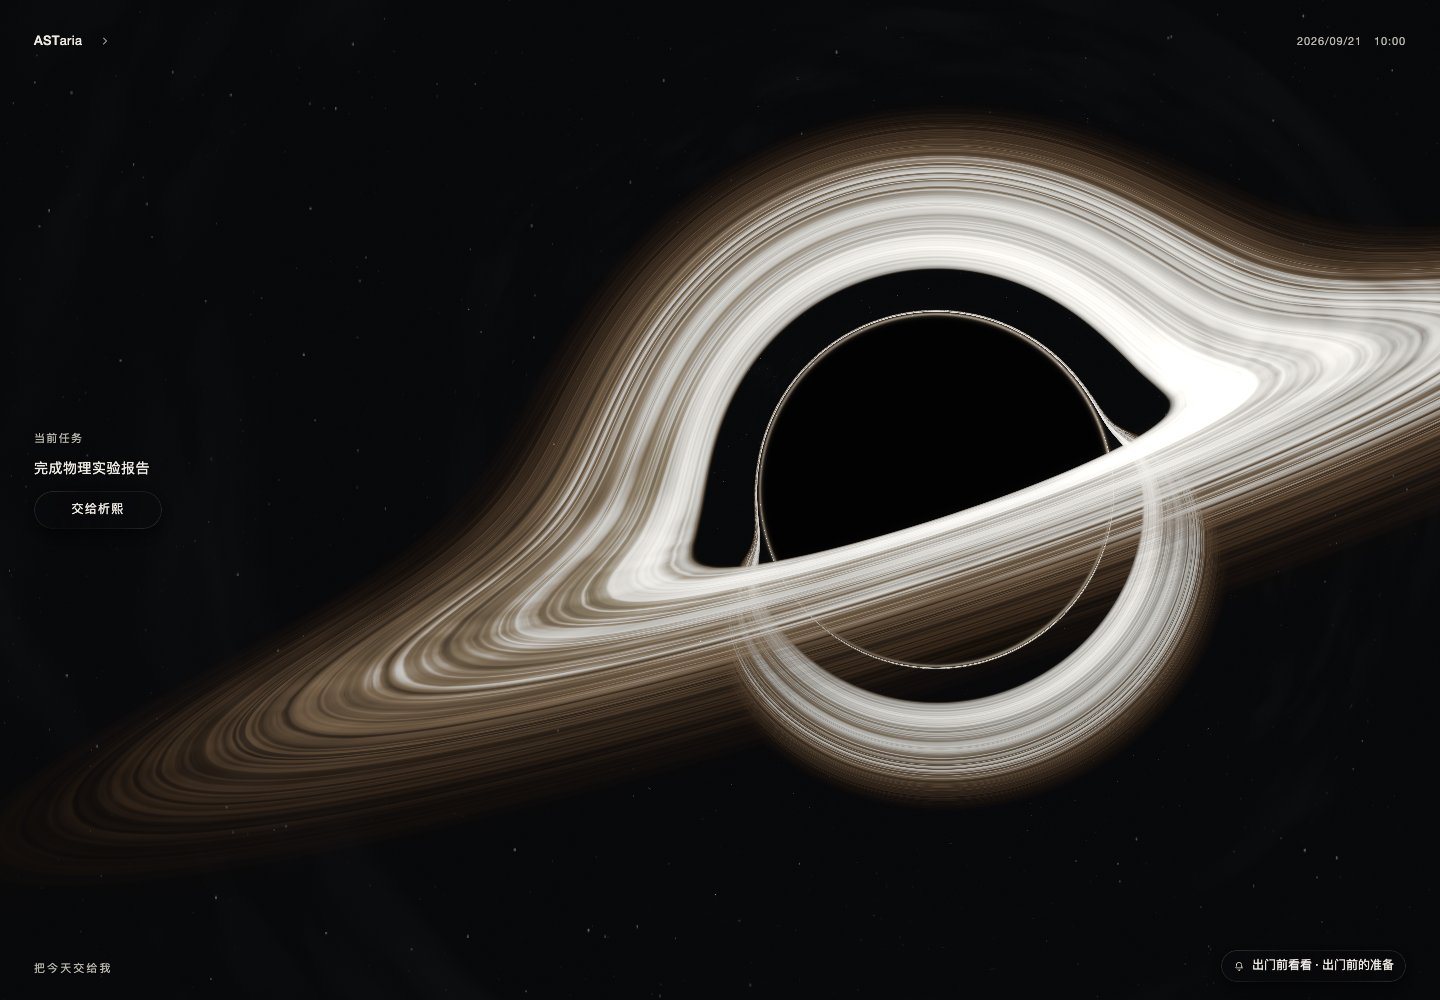
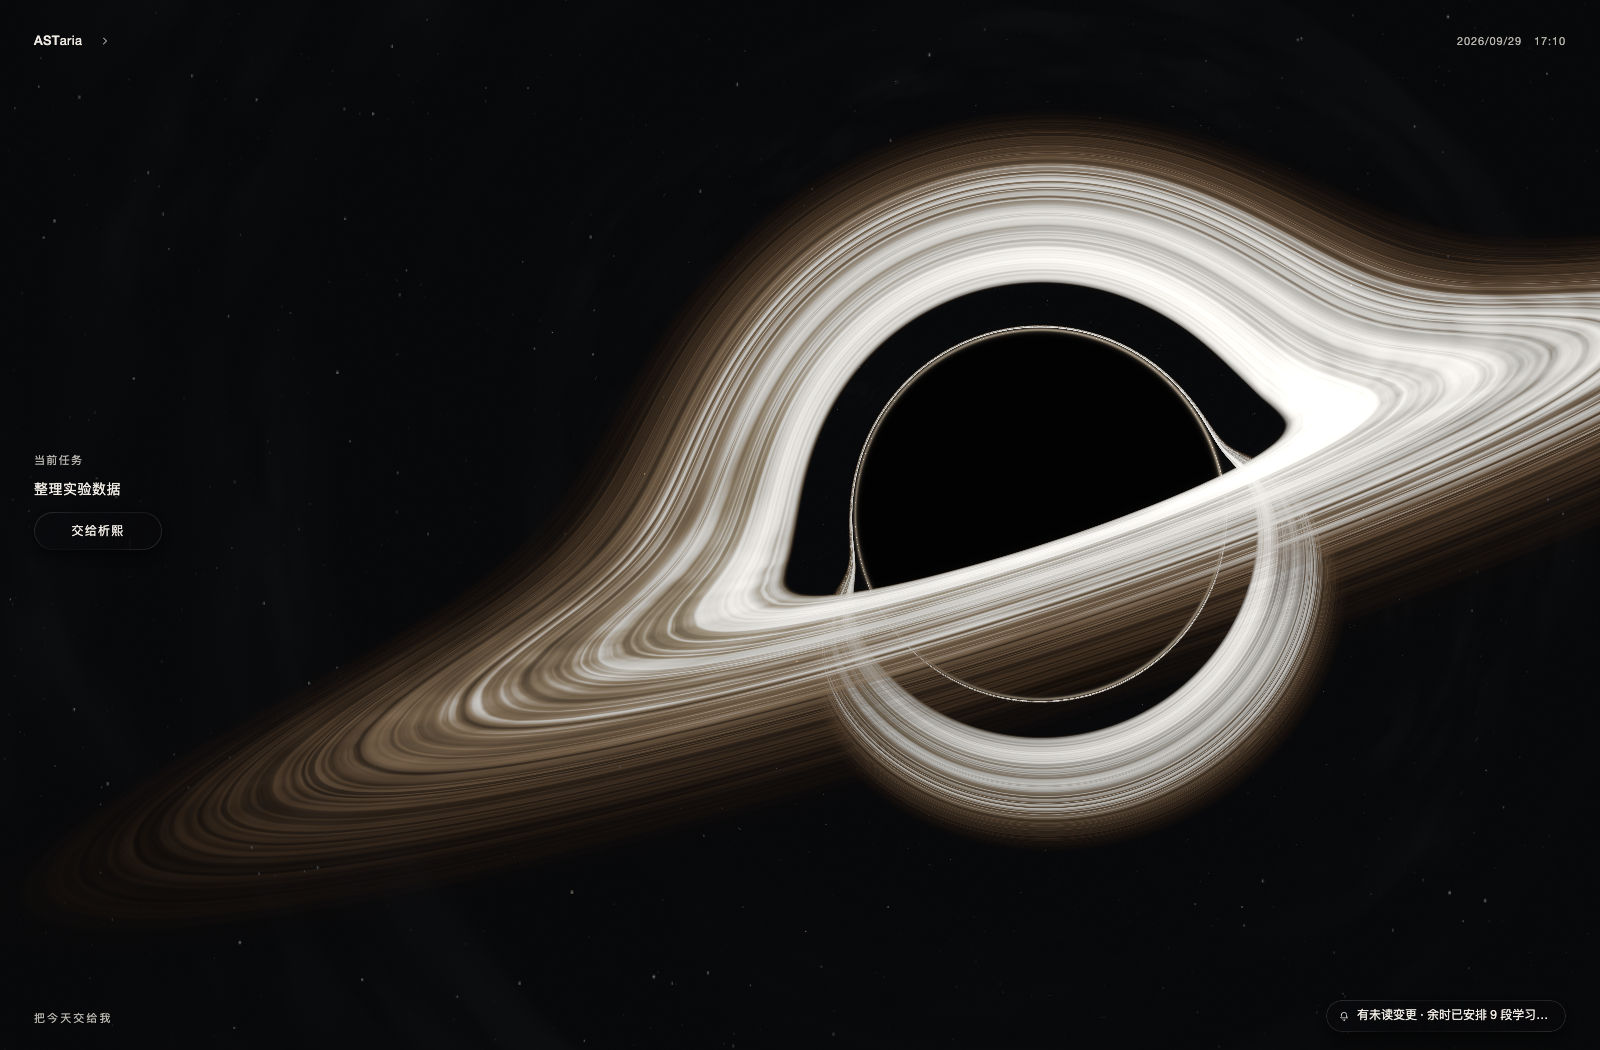
docs: show real scheduling receipts and populated README screenshots

diff --git a/README.md b/README.md
@@ -10,10 +10,23 @@ ASTaria 是一款本机优先的个人时间与事项应用。和析熙聊作业
 
 ## 看看 ASTaria
 
-<!-- Screenshots are captured with fictional, isolated demonstration data. -->
-![黑洞首页：当前事项与析熙入口](docs/images/home.png)
-![日程：课程、任务与空档同屏查看](docs/images/planner.png)
-![余时：展开心愿输入区，与析熙理清第一步](docs/images/free-time.png)
+截图使用虚构演示数据。
+
+**从一句话，到可核对、可撤销的安排。** 析熙把实验报告记为事项并排入今晚 18:00–18:45；展开的变更回执列出截止、预计用时和已排时段，「撤销创建与安排」可一并撤回本次写入。聊天与当天日历就在同一张首页里。
+
+![首页展开：执行结果、变更明细与撤销按钮，旁边同步显示当天安排](docs/images/home-receipt.png)
+
+**黑洞首页**：收起对话后，回到当前事项与析熙入口。
+
+![黑洞首页：当前任务为整理实验数据](docs/images/home.png)
+
+**日程**：课程、当天任务、真实空档与待安排事项一起查看。
+
+![日程周视图：已有课程和任务，当天剩余空档与两项待安排事项](docs/images/planner.png)
+
+**余时**：三个持续目标，未来七天已安排 4 小时 25 分钟；每个目标的频率、单次时长和已排次数都有迹可循。
+
+![余时：编程、英语阅读和速写目标，以及实际排入日历的练习时段](docs/images/free-time.png)
 
 - **析熙**：理解请求、读取空档、记录与安排，修改留下可核对和撤销的回执。支持 DeepSeek API 与本机兼容模型。
 - **日程**：课程、固定活动、任务时段与截止一起查看，支持单双周课表。
@@ -54,7 +67,7 @@ node scripts/run-ui-verifications.mjs --list
 node scripts/run-ui-verifications.mjs
 ```
 
-CI 自动执行源码测试、桌面网页构建、许可清单和版本文档检查。隔离 UI 验证需安装 Google Chrome（可用 `CHROME_BINARY` 指定路径），会自动创建临时浏览器和测试数据，结束后清理；也可在 Actions 中手动运行「UI Verifications」。原生通知显示和实际 GPU 帧率仍需设备验证。
+CI 自动执行源码测试、桌面网页构建、许可清单和版本文档检查。隔离 UI 验证需安装 Google Chrome（可用 `CHROME_BINARY` 指定路径），会自动创建临时浏览器和测试数据，结束后清理；也可在 Actions 中手动运行「UI Verifications」。原生通知显示和实际 GPU 帧率仍需设备验证。README 截图可用 `node scripts/capture-readme.mjs` 重新生成到 `artifacts/readme-capture/`；它使用虚构对话与内存数据库，验证真实保存和撤销，不调用在线模型。
 
 ## 项目结构
 
